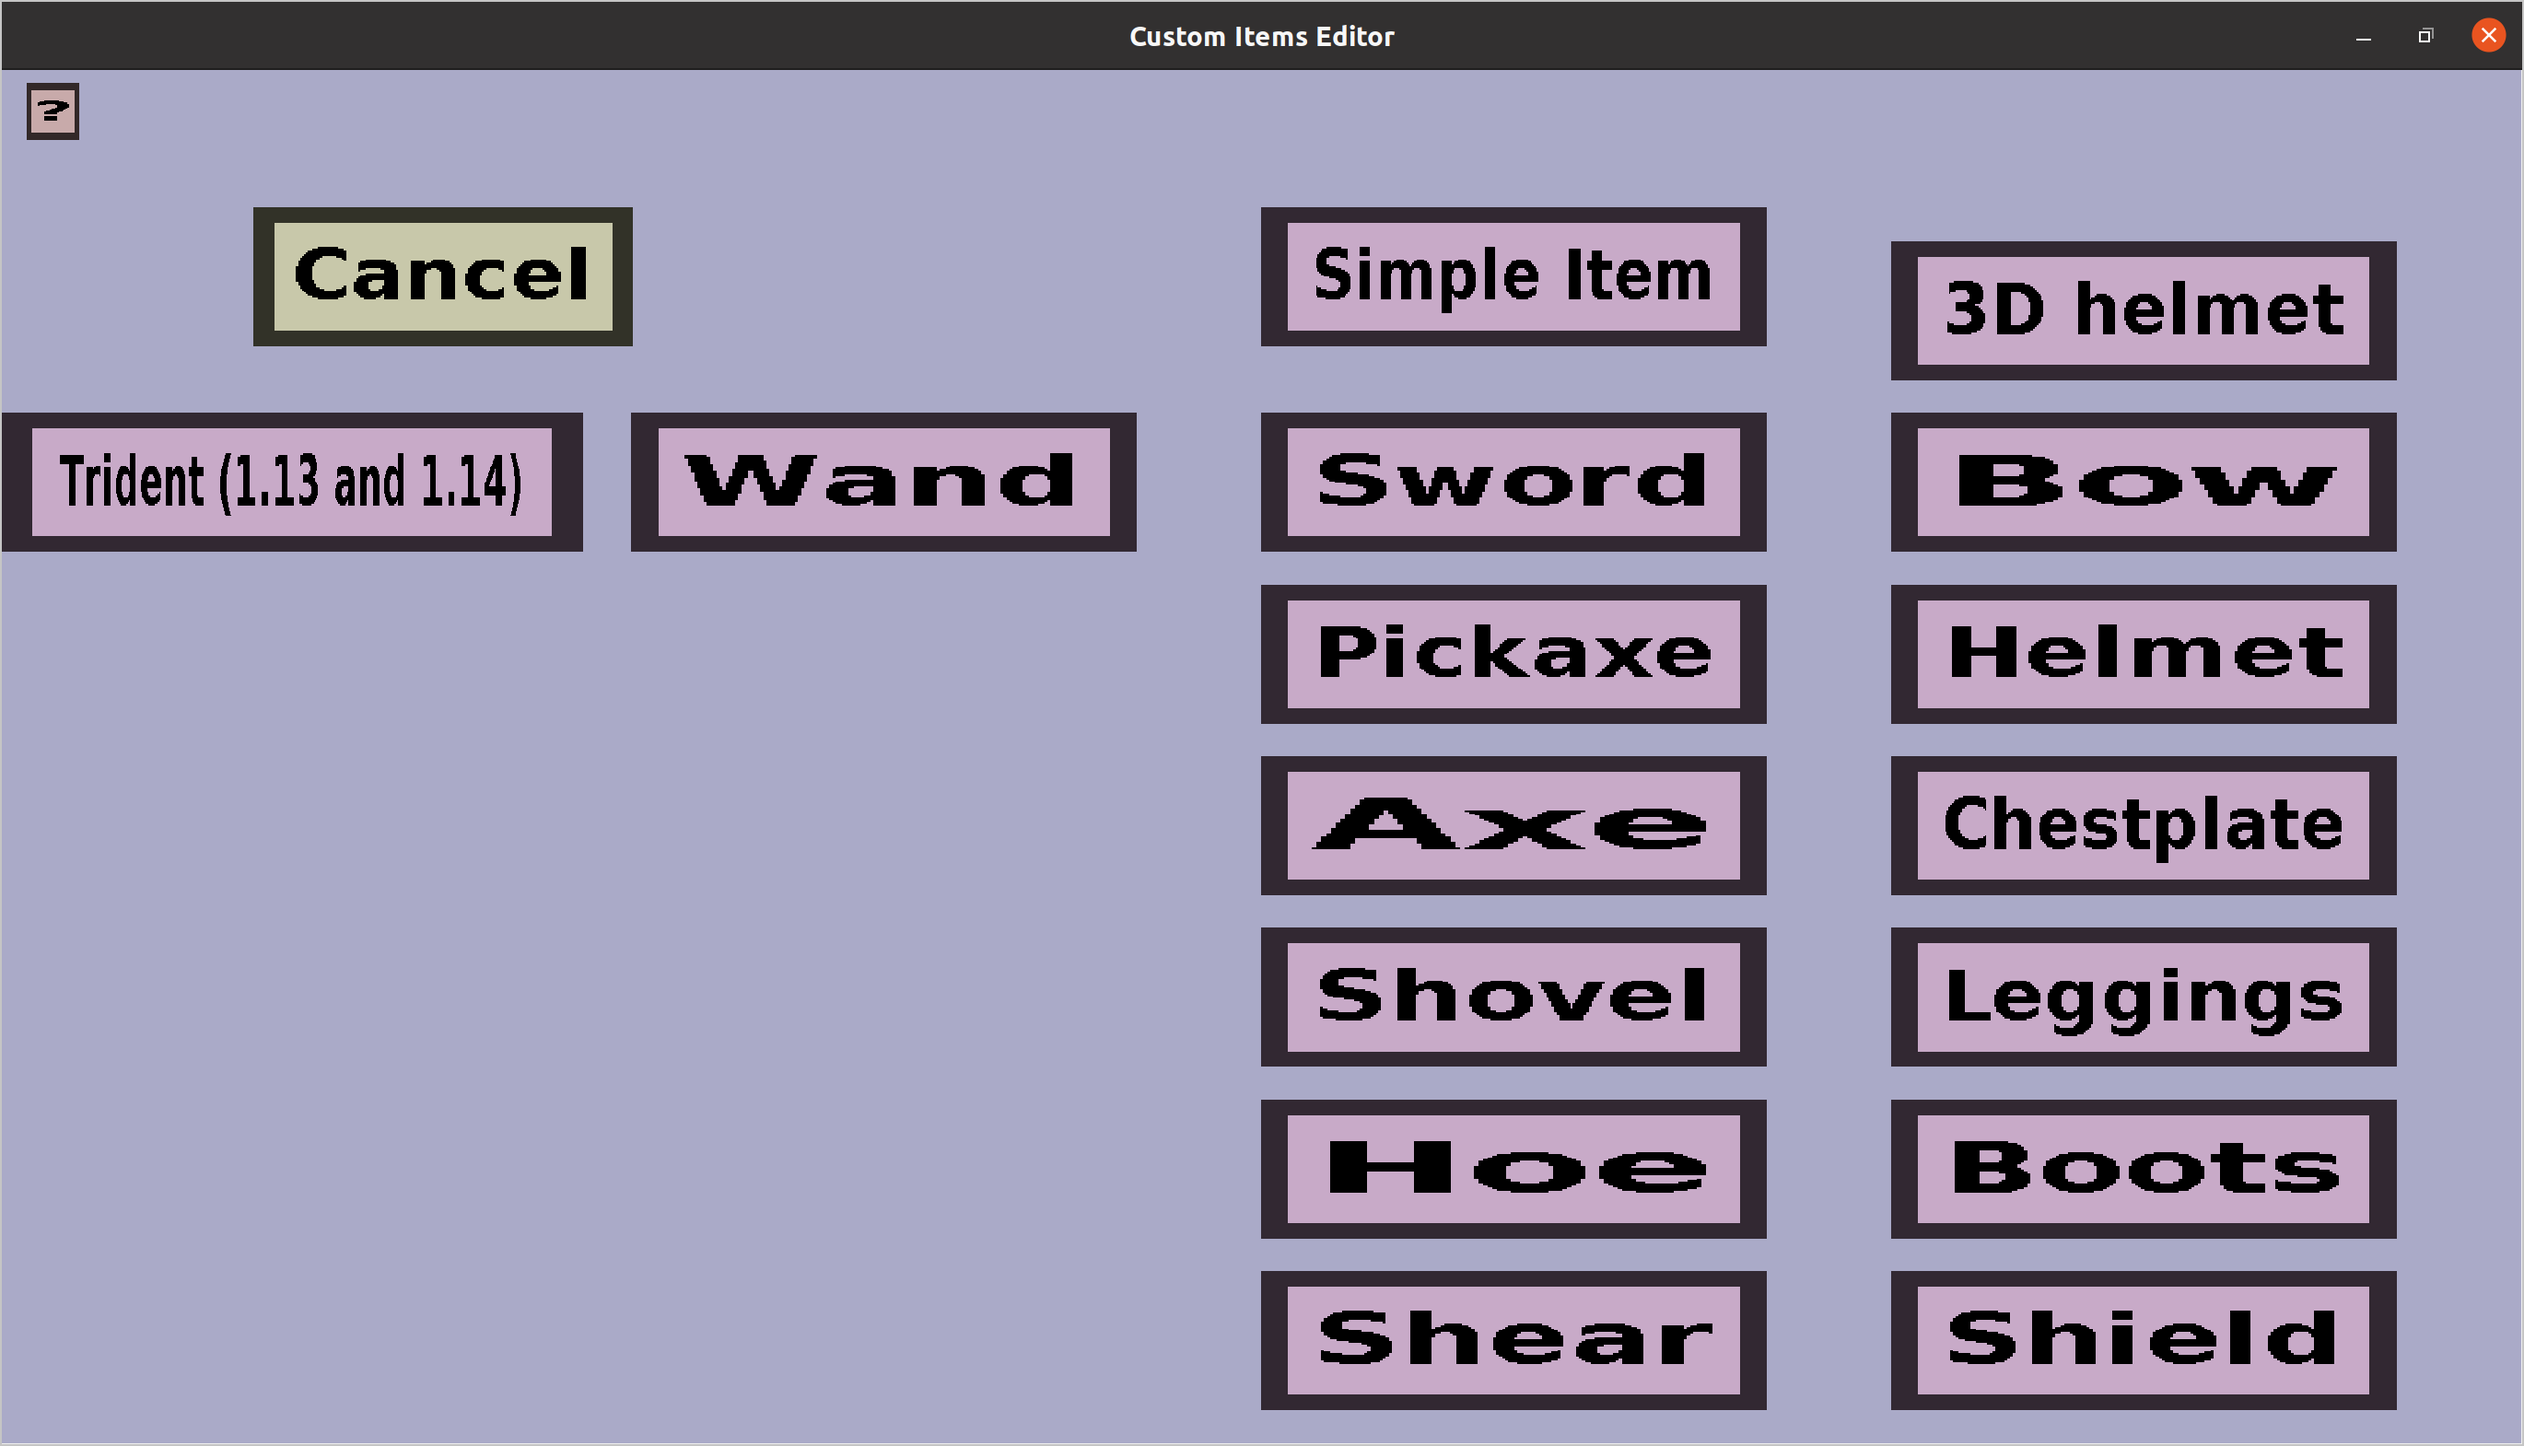
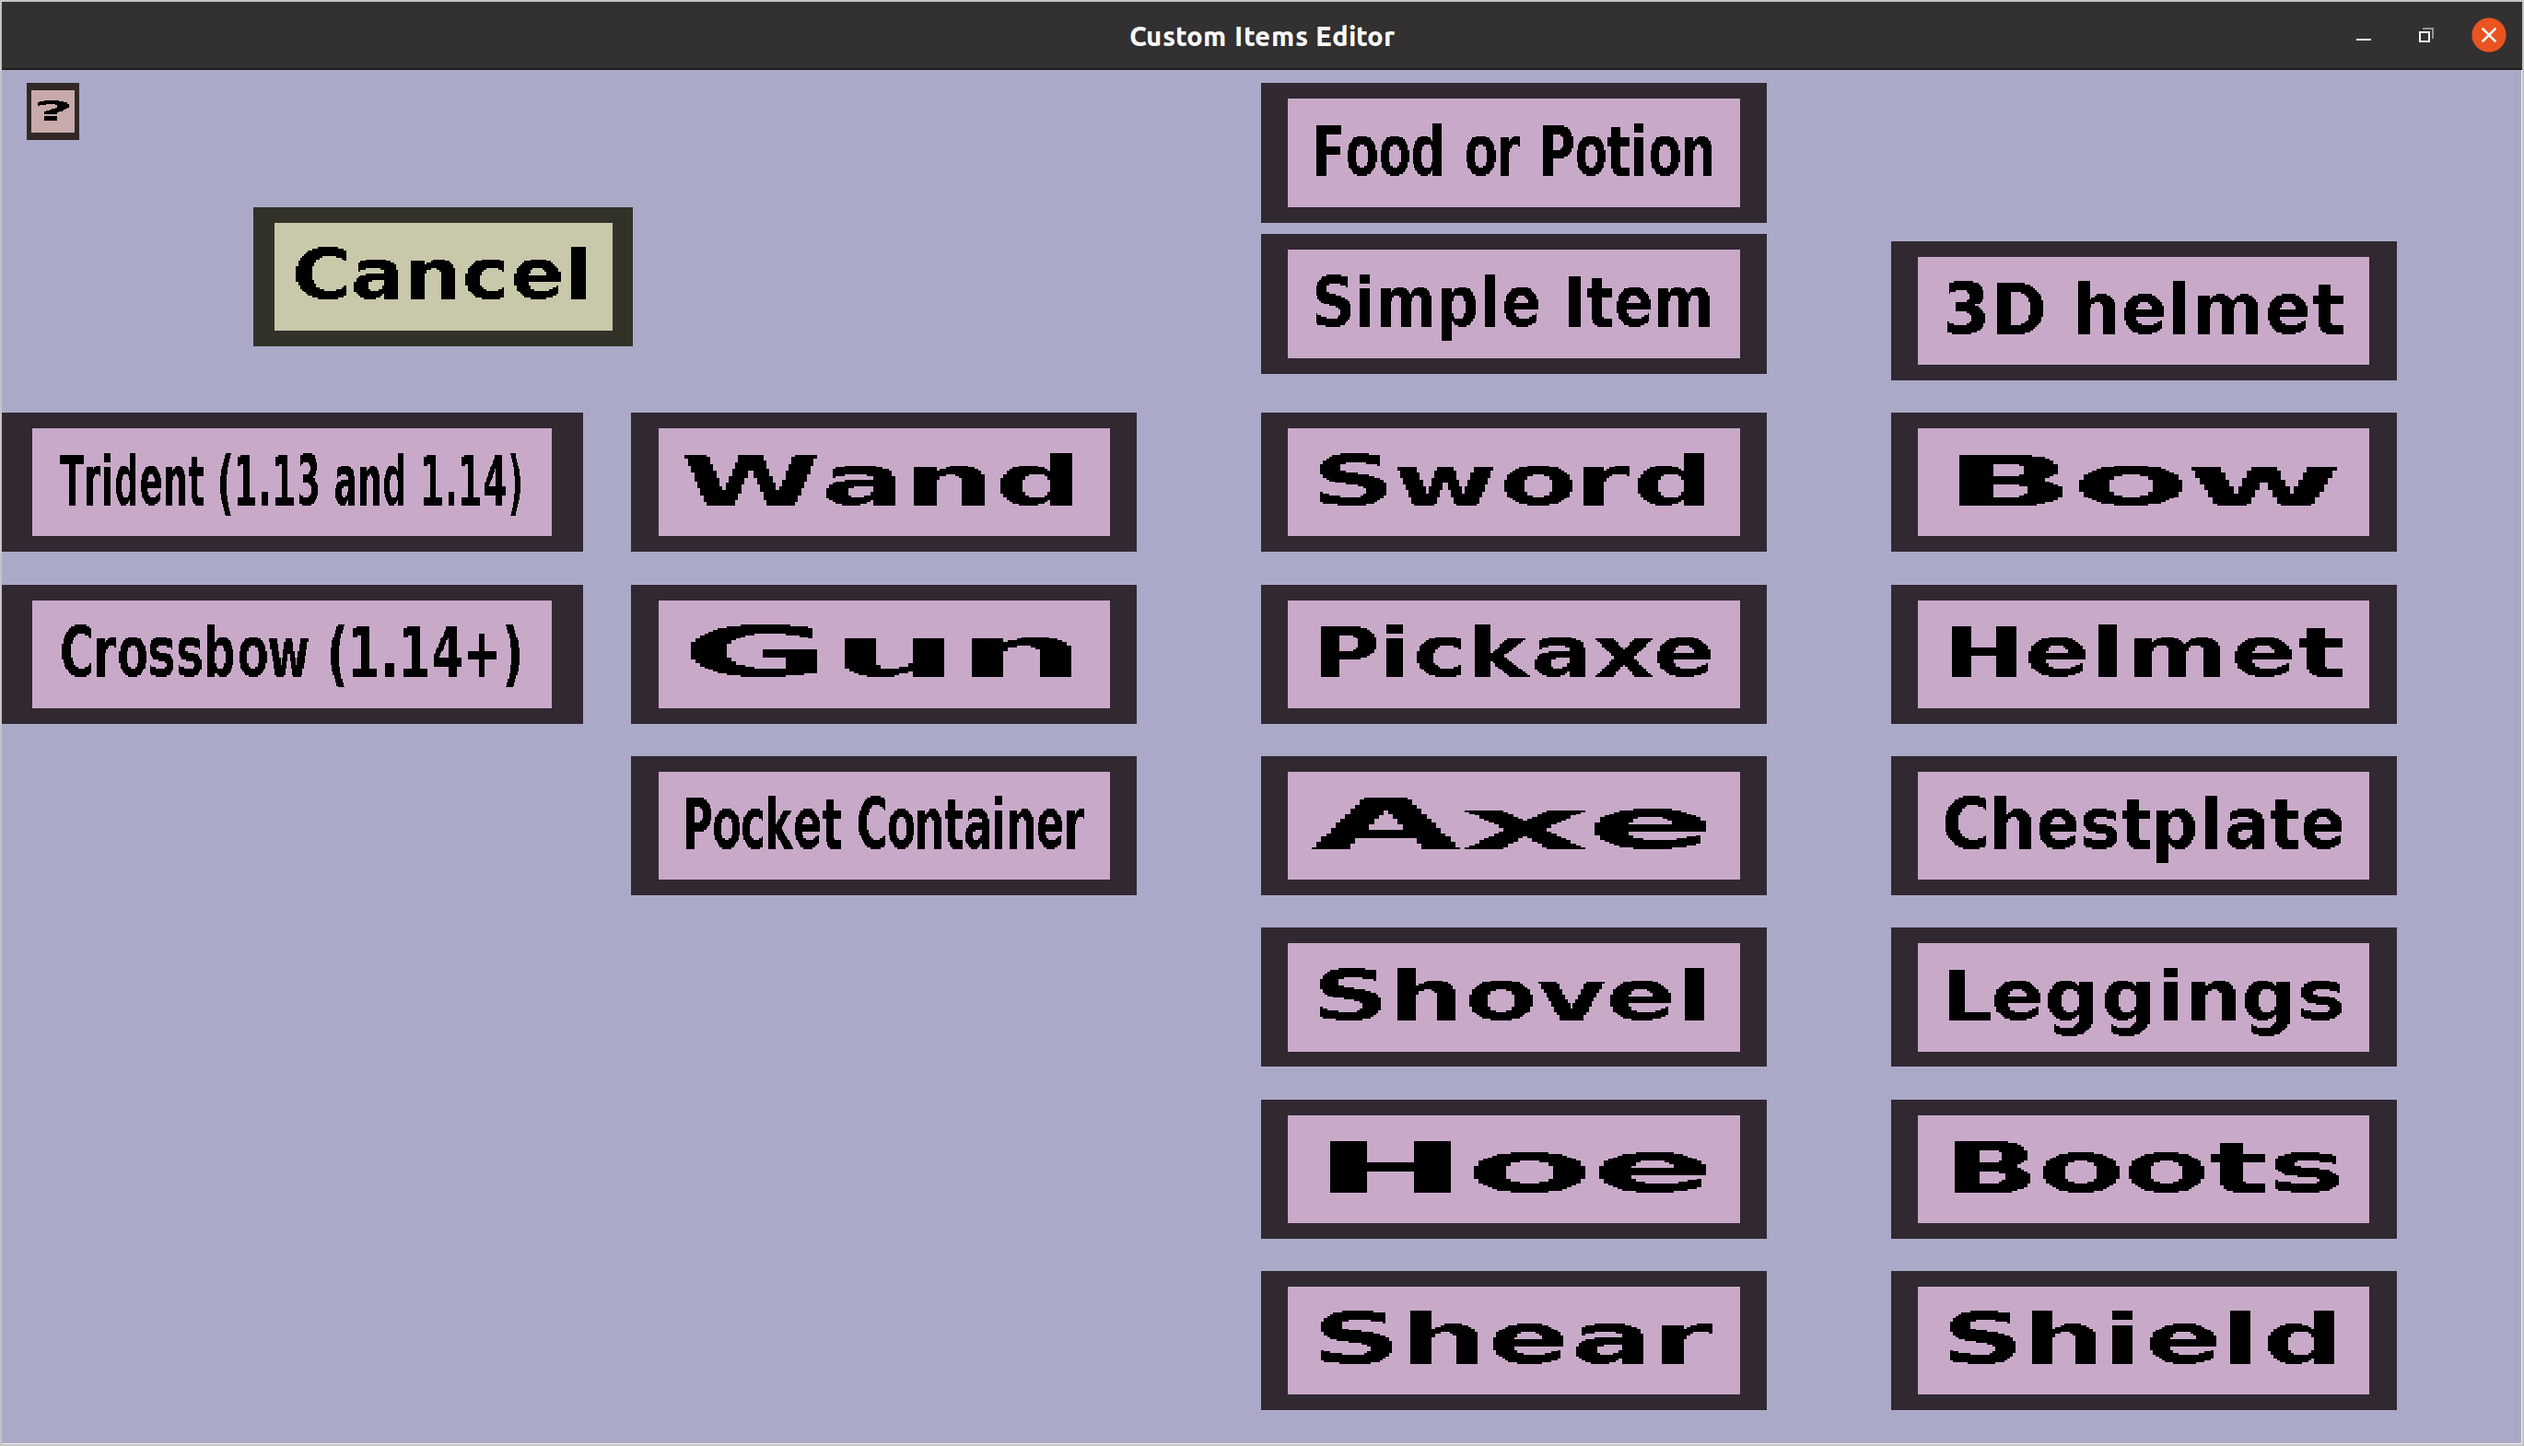
Document custom food of my custom items plugin

Changed region(s): [[0.0, 0.4057, 0.4653, 0.6242], [0.4964, 0.0312, 0.7135, 0.2809]]

diff --git a/custom items/editor documentation/edit menu/items/edit/food.html b/custom items/editor documentation/edit menu/items/edit/food.html
@@ -1,0 +1,76 @@
+<!DOCTYPE html>
+<html>
+    <head>
+        <meta charset="UTF-8" />
+        <title>Food edit menu</title>
+    </head>
+    <body>
+        <p>
+            The food edit menu can be used to create custom food or custom drinks.
+            These custom items can be eaten (or drunk) by players and can restore
+            hunger and/or give potion effects to these players. If you just started
+            creating new custom food, it should look like this:
+        </p>
+        <img src="food.png" width="50%" />
+        <p>
+            All properties on the left of this page are explained
+            <a href="base.html">here</a>. The properties on the right of this page
+            are unique to custom food (and drinks) and are explained below:
+        </p>
+        <h3>Food value</h3>
+        <p>
+            The food value determines how much 'hunger' will be recovered when 
+            eating this custom food. Every point stands for a half 'meat' icon
+            in the hunger bar of the player. For instance, if you keep the 
+            value 5, players who eat it will recover 2 and half 'meat' icon in 
+            their hunger bar (which is 25% of their hunger bar). If you choose
+            20, players will restore their entire hunger bar upon eating the 
+            custom food. If you choose a negative value, players will get
+            more hungry rather than less hungry upon eating this custom food.
+        </p>
+        <h3>Eat effects</h3>
+        <p>
+            The eat effects are the potion effects that will be given to players 
+            who eat this custom food (or your custom drink). You are allowed to
+            keep this list of potion effects empty.
+        </p>
+        <h3>Eat time</h3>
+        <p>
+            The <i>eat time</i> is the time (in ticks) that players need to eat 
+            (or drink) this custom food. Just like regular food, players will 
+            need to keep holding their right mouse button while eating, or the 
+            eating will be cancelled. Unfortunately, the tracking of right-clicks
+            is imprecise (so it is possible that players will finish the eating if 
+            they release their mouse button when they nearly finish eating it).
+        </p>
+        <h3>Eat sound</h3>
+        <p>
+            The <i>eat sound</i> will be played while players are eating this custom 
+            food. By default, this is <i>Entity generic eat</i>, which is the same
+            sound that is played while eating vanilla food. If you want to make a 
+            custom drink instead, you should change it to <i>Entity generic drink</i>. 
+            You are free to choose other sounds as well.
+        </p>
+        <h3>Sound volume & Sound pitch</h3>
+        <p>
+            The <i>sound volume</i> and <i>sound pitch</i> determine how loud and 
+            with which pitch the <i>eat sound</i> will be played while eating the 
+            food. Unfortunately, I don't know much about sounds, so you will have 
+            to play around with it if you want to know more.
+        </p>
+        <h3>Sound period</h3>
+        <p>
+            The <i>sound period</i> determines how often the <i>eat sound</i> will 
+            be played. It will be played every <i>sound period</i> ticks while 
+            players are eating this custom food. For instance, if you keep this 
+            value 4, the <i>eat sound</i> will be played 5 times per second.
+        </p>
+        <h3>Max stacksize</h3>
+        <p>
+            The <i>max stacksize</i> determines the maximum stacksize of item stacks 
+            of this custom food <b>in the <i>survival</i> gamemode</b>. It must be
+            an integer between 1 and 64. The stacksize will be decreased by 1 each 
+            time the player finishes eating this custom food.
+        </p>
+    </body>
+</html>

diff --git a/custom items/editor documentation/edit menu/items/select type.html b/custom items/editor documentation/edit menu/items/select type.html
@@ -18,11 +18,15 @@
         </p>
         <p>
             As you can see, there is plenty of choice: you can create almost every tool in the game.
-            Currently, 'Simple item' and 'Wand' are the only types of custom item that are <b>not</b> considered tools.
-            Neither of them can have durability and only simple items can stack (in survival mode). All other 
-            types of custom items are considered tools and therefore can't stack, but can lose durability.<br>
             I will list all possibilities alongside a brief description:
             <ul>
+                <li>
+                    'Food or Potion' is for custom food or custom potions. These are custom 
+                    items that can mimic food and potions: they can be eaten/drunk, display a 
+                    sound while being eaten/drunk and restore hunger or give potion effects
+                    upon finishing eating/drinking it. The corresponding edit menu is the 
+                    <a href="edit/food.html">food edit menu</a>.
+                </li>
                 <li>
                     'Simple item' is for custom items that are not tools and the only kind of custom item that
                     can stack. The corresponding edit menu is the <a href="edit/simple.html">simple item edit menu</a>.
@@ -99,6 +103,20 @@
                     'Wand' is for (custom) wands. Wands have the ability to shoot custom projectiles, but are basic custom 
                     items aside from that. Note that you need to create a custom projectile before you can create a wand.
                     The corresponding edit menu is the <a href="edit/wand.html">wand edit menu</a>.
+                </li>
+                <li>
+                    'Gun' is for (custom) guns. Guns can shoot custom projectiles, but consume
+                    ammo when doing so. Note that you need to create a custom projectile 
+                    before you can create a custom gun. The corresponding edit menu is the 
+                    <a href="edit/gun.html">gun edit menu</a>.
+                </li>
+                <li>
+                    'Pocket container' is for (custom) pocket containers. These are 
+                    custom items that will open a custom container when players
+                    right-click it. (See the <i>Containers</i> button on the 
+                    <a href="../index.html">edit menu</a> for more information
+                    about custom containers.) The corresponding edit menu is the 
+                    <a href="edit/pocket container.html">pocket container edit menu</a>.
                 </li>
             </ul>
         </p>
